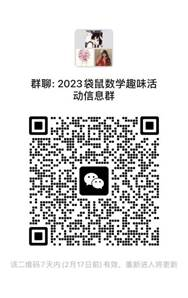
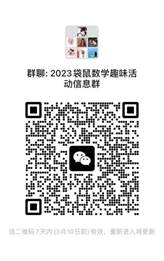
Portal 23.03.05 Update
一周之后，爷爷我又回来啦！！

Changed region(s): [[0.1524, 0.3678, 0.8537, 0.8276], [0.3049, 0.092, 0.7317, 0.3372], [0.1524, 0.2759, 0.2439, 0.3065]]

diff --git a/portal/index.html b/portal/index.html
@@ -16,43 +16,19 @@
     每日公报：整理来自<mark>学校校园公报</mark>的内容，整理出一个更利于<mark>班主任</mark>在早自习向学生们宣导及<mark>学生查看</mark>的内容板块。
   </p>
     <p>
-      <mark><font size="5"><strong>周常内容通告</strong></font></mark>
-      <p>
-        因故缺席第二周的期末考试的同学需要参加期末补考（否则无期末成绩）。请参加期末补考的同学2/20（周一）15:50前往初中教务处1251办公室进行补考。有疑问可以联系：蒋晶晶老师（9622）
-      </p>
-      <p style="line-height: 2em;">
-        <strong><mark>社团（晚课）上课时间通知</mark></strong>
-        <br>社团在这周（第三周开始上课）。请同学们做好上课准备。
-      </p>
-      <p>
+      <!-- <mark><font size="5"><strong>周常内容通告</strong></font></mark> -->
+      <!-- <p>
       <strong><mark>探索课：<font size=6>810</font>(周三)</mark></strong>。
-      </p>
+      </p> -->
     </p>
     <p>
-      <h2><mark>2023年2月24日</mark></h2>
+      <h2><mark>2023年3月6日</mark></h2>
       <!-- <p>
         <h4><mark>公报还在编辑中（德育组），请同学们耐心等候，谢谢！</mark></h4>
       </p> -->
       <p style="line-height: 2em;">
         同学们开学快乐！祝同学们<strong>学习顺利</strong>！
         <p>
-          <p>
-            <h3><mark>KC Music Bank 报名通知</mark></h3>
-            <p>
-              1.1活动内容： Activities:                                              
-              <br>　本学期将举办第二届Music Bank，现在开始招募参赛选手，欢迎大家踊跃报名！
-              <br>1.2 活动观众对象：G8-G12
-              <br>1.3 报名时间：2023.2.20 - 2023.2.26
-              <br>1.4 活动细则
-              <br>　- 选手报名没有舞种的限制。There are no restrictions on the registration of contestants.
-              <br>　- 组内选手人数不限The number of players in the group is not limited
-              <br>　- 报名时间为2.20-2.26号。The registration time is from February 20 to February 26.
-              <br>　- 初赛时间：3.15 弹性时间 The preliminary competition：3.15 flex time
-              <br>　- 初赛地点：教一五楼体育馆The preliminary place：building 1 Fifth Floor Gymnasium
-              <br>　- 初赛表演时长：1-1.5分钟 The duration of preliminary performance ：1-1.5 minute.
-              1.5 报名方式 Registration Method
-              <br>　- 扫描海报上二维码或点击链接报名
-          </p>
           <p>
             <h3><mark>重要通知提醒</mark></h3>
             <p style="line-height: 2em;">
@@ -65,6 +41,28 @@
             <h3><mark>学术类课程通知</mark></h3>
             <p style="line-height: 2em;">
               本学期将开设马术社团，训练时间为周三，周四，周五16:30可任选一天，每次训练时间为45分钟。费用：大马初阶班10次课8800元，大马中阶班10次课9800元。有感兴趣的同学可至游泳馆办公室报名。报名截止日为2月24日。
+            </p><p><img src="./files/image021.jpg" align="right" hspace="24"></p>
+            <p style="line-height: 2em;">
+              世界地理学术挑战活动开始报名啦！
+              <br>组别设置：初级组：12-14 岁  中级组：14-16 岁  高级组：16 岁以上
+              <br>参赛方式：个人笔试
+              <br>报名费用：120元/人
+              <br>活动语言：初级组：中英文双语 中高级组：英文
+              <br>活动形式：学生需在 30 分钟考试时间内，共计完成 50 道地理科目单选题
+              <br>比赛时间：2023 年 3月 11日（线上），2023 年 4月 1 日（线上）任选一期参加
+              <br>报名时间：2023.2.24—2022.3.24
+              <br>报名方式：扫描右侧二维码进群报名
+              <br>咨询地点：教一1332办公室学术专案刘老师
+            </p>
+            <p><img src="./files/image019.jpg" align="right" hspace="24"></p>
+            <p>
+              英国生物测评（初级）开始报名！
+              <br>参赛方式：个人形式
+              <br>活动形式：线上答题，分为选择题和填空题
+              <br>活动语言：中英文双语
+              <br>竞赛时间：2023 年 5 月 13 日（周六）10:00-10:50（50 分钟）
+              <br>报名时间：2023.4.3-2023.4.28            
+              <br>报名方式：扫描二维码进群咨询报名
             </p>
             <p style="line-height: 2em;">
               袋鼠数学思维趣味活动开始报名！
